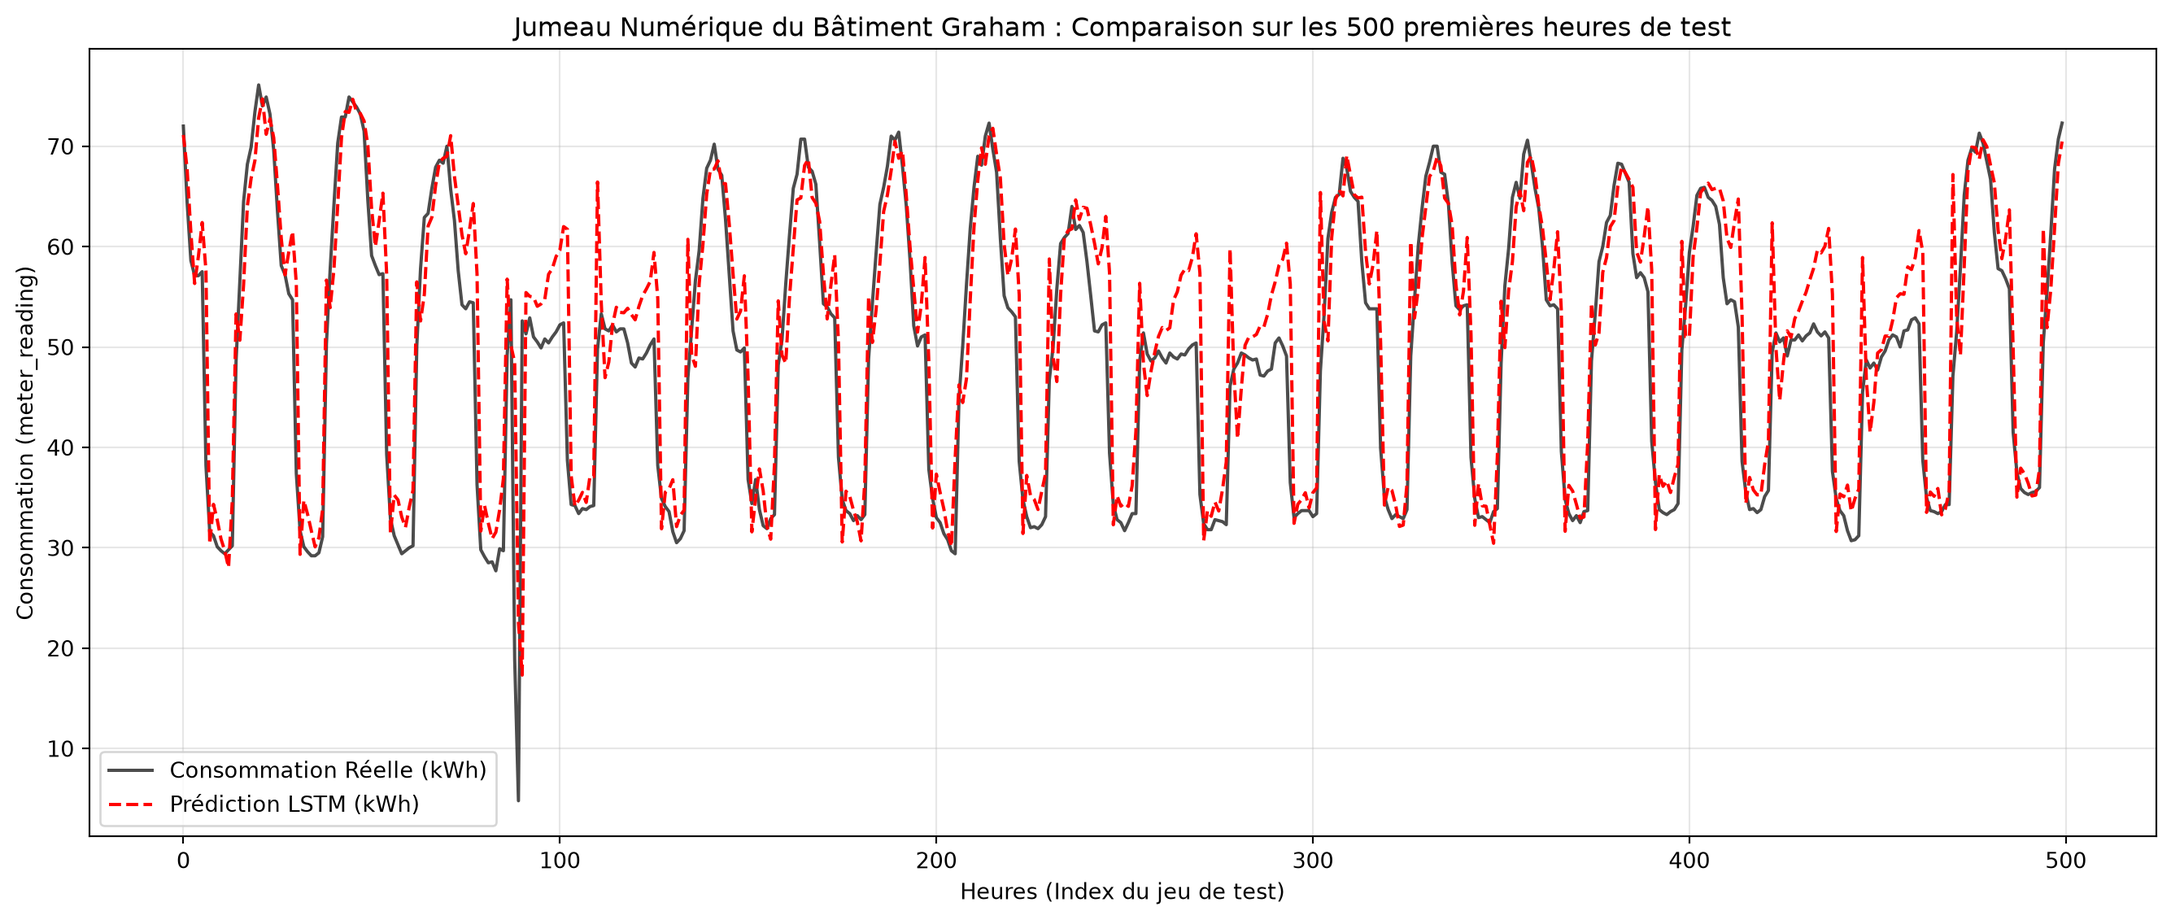
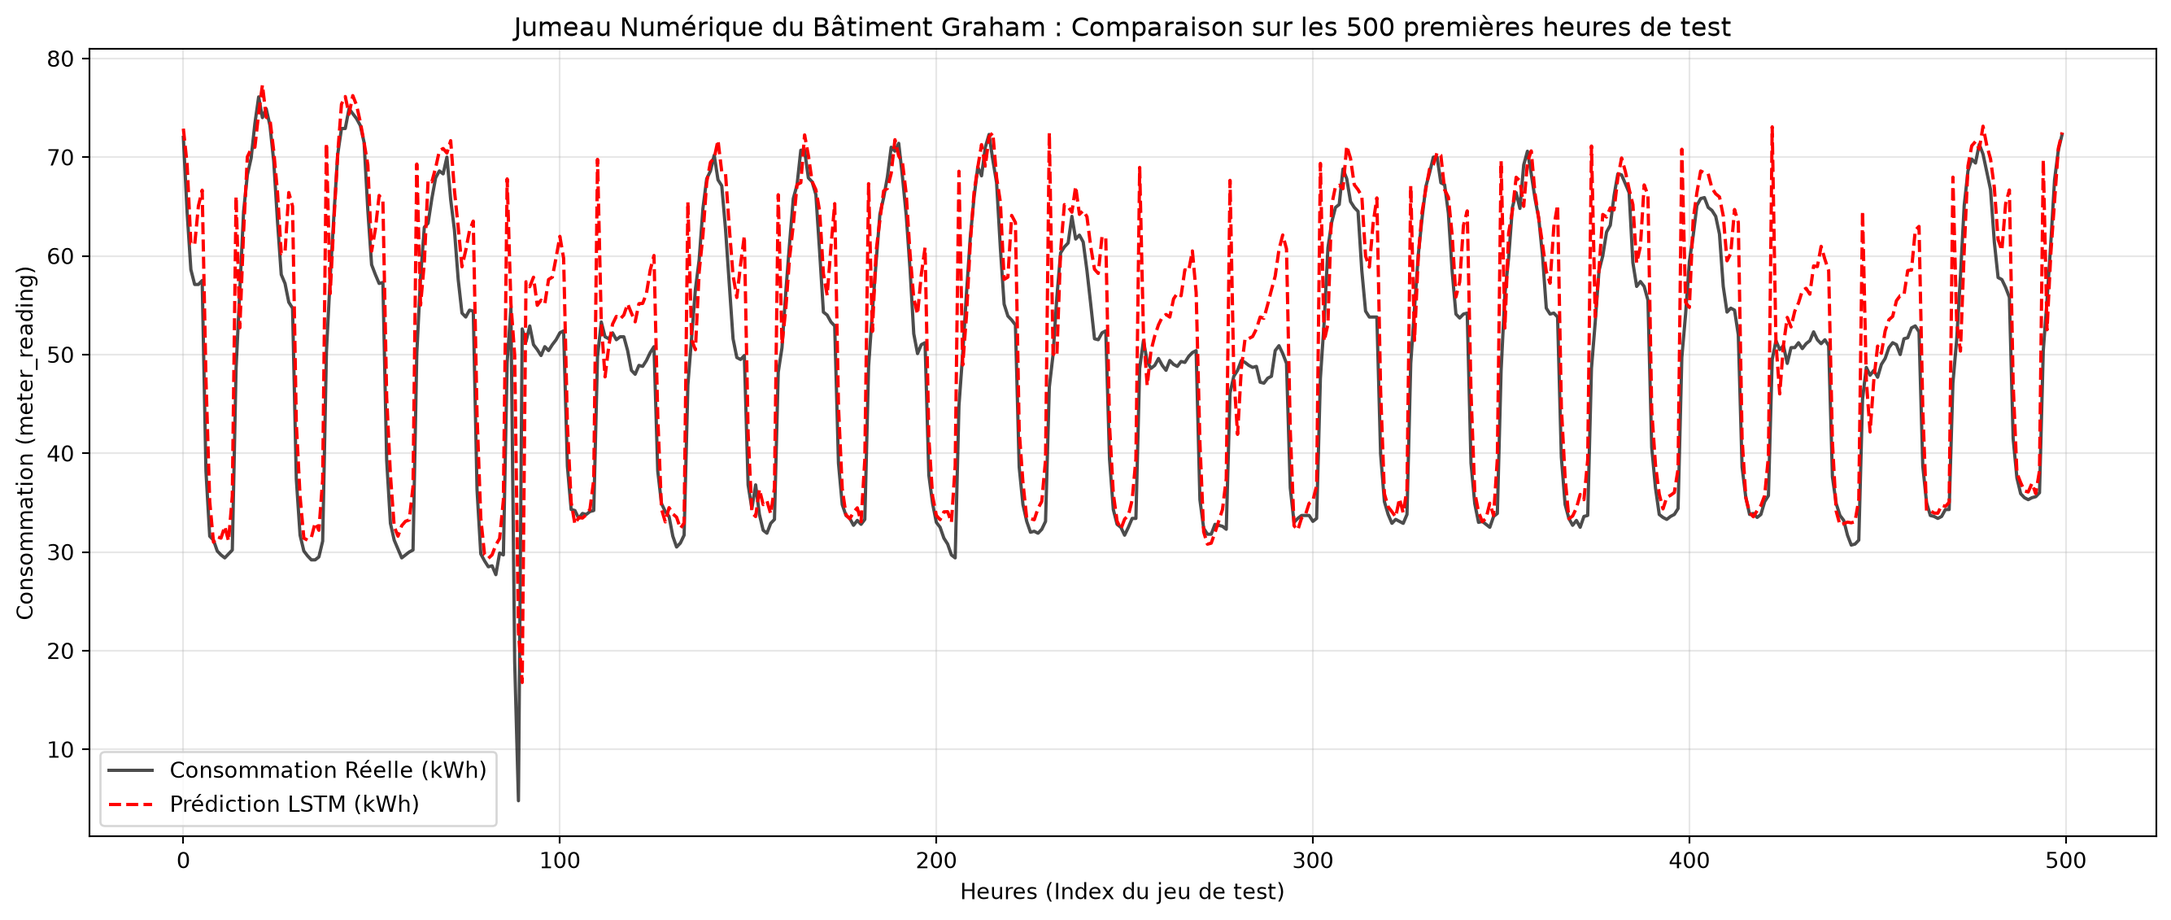
Built site for gh-pages

Changed region(s): [[0.0622, 0.0928, 0.964, 0.6189], [0.0, 0.588, 0.0311, 0.6189], [0.0, 0.3714, 0.0311, 0.4023]]

diff --git a/ai-ml/optitherm.html b/ai-ml/optitherm.html
@@ -463,7 +463,7 @@ window.Quarto = {
 <section id="why-this-building" class="level4">
 <h4 class="anchored" data-anchor-id="why-this-building">Why this building?</h4>
 <p>Office buildings exhibit well-defined daily and weekly occupancy patterns, with low occupancy during nights and weekends. In addition, a building constructed in 1974 is likely to have significant thermal inertia and relatively poor insulation compared with modern standards. These characteristics make it an ideal candidate for a predictive AI-based control system, as substantial energy savings can be achieved by anticipating heating and cooling demands while maintaining occupant comfort.</p>
-<div id="f310b35c" class="cell" data-execution_count="1">
+<div id="9928c8fd" class="cell" data-execution_count="1">
 <div class="code-copy-outer-scaffold"><div class="sourceCode cell-code" id="cb1"><pre class="sourceCode python code-with-copy"><code class="sourceCode python"><span id="cb1-1"><a href="#cb1-1" aria-hidden="true" tabindex="-1"></a><span class="im">import</span> pandas <span class="im">as</span> pd</span>
 <span id="cb1-2"><a href="#cb1-2" aria-hidden="true" tabindex="-1"></a></span>
 <span id="cb1-3"><a href="#cb1-3" aria-hidden="true" tabindex="-1"></a><span class="co"># Load the building metadata</span></span>
@@ -538,7 +538,7 @@ Name: count, dtype: int64
 </section>
 <section id="stage-1-data-engineering-and-consolidation-1" class="level2">
 <h2 class="anchored" data-anchor-id="stage-1-data-engineering-and-consolidation-1">Stage 1: Data Engineering and Consolidation</h2>
-<div id="9593d9f4" class="cell" data-execution_count="2">
+<div id="6201e1d2" class="cell" data-execution_count="2">
 <div class="code-copy-outer-scaffold"><div class="sourceCode cell-code" id="cb3"><pre class="sourceCode python code-with-copy"><code class="sourceCode python"><span id="cb3-1"><a href="#cb3-1" aria-hidden="true" tabindex="-1"></a><span class="co"># Parameters for the digital twin</span></span>
 <span id="cb3-2"><a href="#cb3-2" aria-hidden="true" tabindex="-1"></a>building_id <span class="op">=</span> <span class="st">"Panther_office_Graham"</span></span>
 <span id="cb3-3"><a href="#cb3-3" aria-hidden="true" tabindex="-1"></a>site_id <span class="op">=</span> <span class="st">"Panther"</span></span>
@@ -603,7 +603,7 @@ dtype: int64</code></pre>
 <section id="next-step" class="level4">
 <h4 class="anchored" data-anchor-id="next-step">Next Step</h4>
 <p>Before deciding whether to impute or discard these observations, a visual temporal analysis is required to identify the distribution and duration of the electricity meter outages.</p>
-<div id="fb8bb207" class="cell" data-execution_count="3">
+<div id="91caa2a7" class="cell" data-execution_count="3">
 <div class="code-copy-outer-scaffold"><div class="sourceCode cell-code" id="cb5"><pre class="sourceCode python code-with-copy"><code class="sourceCode python"><span id="cb5-1"><a href="#cb5-1" aria-hidden="true" tabindex="-1"></a><span class="im">import</span> matplotlib.pyplot <span class="im">as</span> plt</span>
 <span id="cb5-2"><a href="#cb5-2" aria-hidden="true" tabindex="-1"></a></span>
 <span id="cb5-3"><a href="#cb5-3" aria-hidden="true" tabindex="-1"></a><span class="bu">print</span>(<span class="st">"1. Cleaning exogenous variables (weather data)..."</span>)</span>
@@ -659,7 +659,7 @@ dtype: int64
 <p>Interestingly, the prolonged sensor outage observed during the summer of 2017 was retained and used as a natural temporal boundary between the training and testing datasets. This approach avoids arbitrary data splitting strategies and ensures a realistic evaluation scenario, where the model is trained on past observations and tested on future unseen conditions.</p>
 <p><strong>Methodological justification:</strong></p>
 <p>The thermal dynamics of a building are learned from temporal sequences using recurrent neural networks (RNN/LSTM) with sliding windows. Therefore, preserving the chronological structure of the data is essential. By using the sensor outage as a natural separation point, the model evaluation better reflects a real-world deployment scenario, where future energy consumption must be predicted based solely on historical information.</p>
-<div id="ba37c20b" class="cell" data-execution_count="4">
+<div id="bb0db05f" class="cell" data-execution_count="4">
 <div class="code-copy-outer-scaffold"><div class="sourceCode cell-code" id="cb7"><pre class="sourceCode python code-with-copy"><code class="sourceCode python"><span id="cb7-1"><a href="#cb7-1" aria-hidden="true" tabindex="-1"></a><span class="bu">print</span>(<span class="st">"1. Removing the initial data gap (early 2016)..."</span>)</span>
 <span id="cb7-2"><a href="#cb7-2" aria-hidden="true" tabindex="-1"></a></span>
 <span id="cb7-3"><a href="#cb7-3" aria-hidden="true" tabindex="-1"></a><span class="co"># Remove the period with insufficient data coverage</span></span>
@@ -727,7 +727,7 @@ dtype: int64
 <p><strong><em>Why use both sine and cosine components?</em></strong></p>
 <p>Using only one trigonometric function introduces ambiguity due to symmetry. For example, if only the sine component is used, midnight (<span class="math inline">\(\sin(0)=0\)</span>) and noon (<span class="math inline">\(\sin(\pi)=0\)</span>) would receive the same value, preventing the model from distinguishing between day and night. By combining the cosine component (<span class="math inline">\(X\)</span>-axis) and sine component (<span class="math inline">\(Y\)</span>-axis), each timestamp is uniquely represented in a two-dimensional periodic space. Consequently, the Euclidean distance between 23:00 and 01:00 is correctly interpreted as small by the neural network.</p>
 <p>The following code adds these temporal coordinates to the dataset:</p>
-<div id="f295a887" class="cell" data-execution_count="5">
+<div id="40c1a154" class="cell" data-execution_count="5">
 <div class="code-copy-outer-scaffold"><div class="sourceCode cell-code" id="cb9"><pre class="sourceCode python code-with-copy"><code class="sourceCode python"><span id="cb9-1"><a href="#cb9-1" aria-hidden="true" tabindex="-1"></a><span class="im">import</span> numpy <span class="im">as</span> np</span>
 <span id="cb9-2"><a href="#cb9-2" aria-hidden="true" tabindex="-1"></a><span class="im">import</span> matplotlib.pyplot <span class="im">as</span> plt</span>
 <span id="cb9-3"><a href="#cb9-3" aria-hidden="true" tabindex="-1"></a></span>
@@ -783,7 +783,7 @@ dtype: int64
 <p>This analysis provides valuable insights for feature selection before training the PyTorch model. Variables with limited predictive relevance may be removed to reduce noise and decrease the dimensionality of the input tensors. However, correlation alone does not fully capture the predictive value of a feature, especially in nonlinear time-dependent systems such as building thermal dynamics.</p>
 <p><strong>Code: Correlation Heatmap</strong></p>
 <p>The following visualization uses the <code>seaborn</code> library to generate a correlation heatmap, providing an overview of the relationships between the selected features and the energy consumption target.</p>
-<div id="74efd0ca" class="cell" data-execution_count="6">
+<div id="df7bccfd" class="cell" data-execution_count="6">
 <div class="code-copy-outer-scaffold"><div class="sourceCode cell-code" id="cb11"><pre class="sourceCode python code-with-copy"><code class="sourceCode python"><span id="cb11-1"><a href="#cb11-1" aria-hidden="true" tabindex="-1"></a><span class="im">import</span> seaborn <span class="im">as</span> sns</span>
 <span id="cb11-2"><a href="#cb11-2" aria-hidden="true" tabindex="-1"></a><span class="im">import</span> matplotlib.pyplot <span class="im">as</span> plt</span>
 <span id="cb11-3"><a href="#cb11-3" aria-hidden="true" tabindex="-1"></a></span>
@@ -852,7 +852,7 @@ Génération de la Heatmap globale...</code></pre>
 <li><code>day_cos</code>: weekly temporal encoding component.</li>
 </ul>
 <p>The objective is to determine whether past values of these variables contain predictive information about future electricity consumption over a 24-hour horizon. This analysis helps identify delayed relationships that cannot be captured by a standard Pearson correlation computed at the same timestamp.</p>
-<div id="3694def3" class="cell" data-execution_count="7">
+<div id="ed1399c9" class="cell" data-execution_count="7">
 <div class="code-copy-outer-scaffold"><div class="sourceCode cell-code" id="cb13"><pre class="sourceCode python code-with-copy"><code class="sourceCode python"><span id="cb13-1"><a href="#cb13-1" aria-hidden="true" tabindex="-1"></a><span class="im">import</span> pandas <span class="im">as</span> pd</span>
 <span id="cb13-2"><a href="#cb13-2" aria-hidden="true" tabindex="-1"></a><span class="im">import</span> matplotlib.pyplot <span class="im">as</span> plt</span>
 <span id="cb13-3"><a href="#cb13-3" aria-hidden="true" tabindex="-1"></a></span>
@@ -1000,7 +1000,7 @@ dtype: float64</code></pre>
 <p>To predict the energy consumption at time <span class="math inline">\(t\)</span>, the model receives the previous 24 hours of system information:</p>
 <p>[ [X_{t-24}, X_{t-23}, …, X_{t-1}] ]</p>
 <p>Any sequence containing missing target values is discarded to ensure that the model is trained only on physically consistent observations.</p>
-<div id="fee46f05" class="cell" data-execution_count="8">
+<div id="c4d0d6ea" class="cell" data-execution_count="8">
 <div class="code-copy-outer-scaffold"><div class="sourceCode cell-code" id="cb15"><pre class="sourceCode python code-with-copy"><code class="sourceCode python"><span id="cb15-1"><a href="#cb15-1" aria-hidden="true" tabindex="-1"></a><span class="im">import</span> numpy <span class="im">as</span> np</span>
 <span id="cb15-2"><a href="#cb15-2" aria-hidden="true" tabindex="-1"></a><span class="im">import</span> pandas <span class="im">as</span> pd</span>
 <span id="cb15-3"><a href="#cb15-3" aria-hidden="true" tabindex="-1"></a><span class="im">from</span> sklearn.preprocessing <span class="im">import</span> MinMaxScaler</span>
@@ -1137,7 +1137,7 @@ Testing X : (3824, 24, 10), y: (3824, 1)</code></pre>
 </ol>
 <p>The model parameters are optimized by minimizing the Mean Squared Error (MSE) loss, which is appropriate for this continuous regression problem. The Adam optimizer is selected due to its adaptive learning rate mechanism and its robustness for training deep neural networks.</p>
 <p>The following code implements the <code>ThermalLSTM</code> architecture and initializes the training configuration.</p>
-<div id="f4075238" class="cell" data-execution_count="9">
+<div id="d24a1c1e" class="cell" data-execution_count="9">
 <div class="code-copy-outer-scaffold"><div class="sourceCode cell-code" id="cb17"><pre class="sourceCode python code-with-copy"><code class="sourceCode python"><span id="cb17-1"><a href="#cb17-1" aria-hidden="true" tabindex="-1"></a><span class="im">import</span> torch</span>
 <span id="cb17-2"><a href="#cb17-2" aria-hidden="true" tabindex="-1"></a><span class="im">import</span> torch.nn <span class="im">as</span> nn</span>
 <span id="cb17-3"><a href="#cb17-3" aria-hidden="true" tabindex="-1"></a><span class="im">import</span> torch.optim <span class="im">as</span> optim</span>
@@ -1283,7 +1283,7 @@ ThermalLSTM(
 -&gt; Model ready for training.</code></pre>
 </div>
 </div>
-<div id="b66ff519" class="cell" data-execution_count="10">
+<div id="11c0ae60" class="cell" data-execution_count="10">
 <div class="code-copy-outer-scaffold"><div class="sourceCode cell-code" id="cb19"><pre class="sourceCode python code-with-copy"><code class="sourceCode python"><span id="cb19-1"><a href="#cb19-1" aria-hidden="true" tabindex="-1"></a><span class="im">import</span> torch</span>
 <span id="cb19-2"><a href="#cb19-2" aria-hidden="true" tabindex="-1"></a><span class="im">from</span> torch.utils.data <span class="im">import</span> TensorDataset, DataLoader</span>
 <span id="cb19-3"><a href="#cb19-3" aria-hidden="true" tabindex="-1"></a></span>
@@ -1325,7 +1325,7 @@ Encapsulation dans des DataLoader (Gestion des batchs)...
 -&gt; Model transfered to the target device : cpu</code></pre>
 </div>
 </div>
-<div id="a8eb1af7" class="cell" data-execution_count="11">
+<div id="cfc525dc" class="cell" data-execution_count="11">
 <div class="code-copy-outer-scaffold"><div class="sourceCode cell-code" id="cb21"><pre class="sourceCode python code-with-copy"><code class="sourceCode python"><span id="cb21-1"><a href="#cb21-1" aria-hidden="true" tabindex="-1"></a><span class="im">import</span> torch</span>
 <span id="cb21-2"><a href="#cb21-2" aria-hidden="true" tabindex="-1"></a><span class="im">from</span> torch.utils.data <span class="im">import</span> TensorDataset, DataLoader</span>
 <span id="cb21-3"><a href="#cb21-3" aria-hidden="true" tabindex="-1"></a></span>
@@ -1371,7 +1371,7 @@ Creating DataLoaders...
 <p>After each epoch, the model is evaluated on the future unseen dataset separated by the natural sensor outage boundary. This chronological evaluation provides a realistic measure of the model’s generalization capability.</p></li>
 </ol>
 <p>The evolution of the training and evaluation losses is stored throughout the optimization process to monitor convergence and detect potential overfitting.</p>
-<div id="655d9c1a" class="cell" data-execution_count="12">
+<div id="803c501d" class="cell" data-execution_count="12">
 <div class="code-copy-outer-scaffold"><div class="sourceCode cell-code" id="cb23"><pre class="sourceCode python code-with-copy"><code class="sourceCode python"><span id="cb23-1"><a href="#cb23-1" aria-hidden="true" tabindex="-1"></a><span class="im">import</span> torch</span>
 <span id="cb23-2"><a href="#cb23-2" aria-hidden="true" tabindex="-1"></a></span>
 <span id="cb23-3"><a href="#cb23-3" aria-hidden="true" tabindex="-1"></a><span class="bu">print</span>(<span class="st">"Configuring the training loop..."</span>)</span>
@@ -1450,23 +1450,23 @@ Creating DataLoaders...
 <span id="cb23-76"><a href="#cb23-76" aria-hidden="true" tabindex="-1"></a><span class="bu">print</span>(<span class="ss">f"Best test MSE: </span><span class="sc">{</span>best_test_loss<span class="sc">:.6f}</span><span class="ss">"</span>)</span></code></pre></div><button title="Copy to Clipboard" class="code-copy-button"><i class="bi"></i></button></div>
 <div class="cell-output cell-output-stdout">
 <pre><code>Configuring the training loop...
-Epoch [1/100] | Train Loss (MSE): 0.074397 | Test Loss (MSE): 0.047068
-Epoch [10/100] | Train Loss (MSE): 0.003276 | Test Loss (MSE): 0.008110
-Epoch [20/100] | Train Loss (MSE): 0.002428 | Test Loss (MSE): 0.004623
-Epoch [30/100] | Train Loss (MSE): 0.001639 | Test Loss (MSE): 0.002998
-Epoch [40/100] | Train Loss (MSE): 0.001008 | Test Loss (MSE): 0.002055
-Epoch [50/100] | Train Loss (MSE): 0.000752 | Test Loss (MSE): 0.001472
-Epoch [60/100] | Train Loss (MSE): 0.000641 | Test Loss (MSE): 0.001698
-Epoch [70/100] | Train Loss (MSE): 0.000594 | Test Loss (MSE): 0.001375
-Epoch [80/100] | Train Loss (MSE): 0.000577 | Test Loss (MSE): 0.001574
-Epoch [90/100] | Train Loss (MSE): 0.000558 | Test Loss (MSE): 0.001511
-Epoch [100/100] | Train Loss (MSE): 0.000542 | Test Loss (MSE): 0.001463
+Epoch [1/100] | Train Loss (MSE): 0.064011 | Test Loss (MSE): 0.034661
+Epoch [10/100] | Train Loss (MSE): 0.003240 | Test Loss (MSE): 0.007420
+Epoch [20/100] | Train Loss (MSE): 0.002548 | Test Loss (MSE): 0.003897
+Epoch [30/100] | Train Loss (MSE): 0.001892 | Test Loss (MSE): 0.003160
+Epoch [40/100] | Train Loss (MSE): 0.001292 | Test Loss (MSE): 0.002343
+Epoch [50/100] | Train Loss (MSE): 0.000898 | Test Loss (MSE): 0.001726
+Epoch [60/100] | Train Loss (MSE): 0.000772 | Test Loss (MSE): 0.001557
+Epoch [70/100] | Train Loss (MSE): 0.000697 | Test Loss (MSE): 0.001448
+Epoch [80/100] | Train Loss (MSE): 0.000677 | Test Loss (MSE): 0.001728
+Epoch [90/100] | Train Loss (MSE): 0.000647 | Test Loss (MSE): 0.001450
+Epoch [100/100] | Train Loss (MSE): 0.000630 | Test Loss (MSE): 0.001669
 
 --- Training completed successfully! ---
-Best test MSE: 0.001283</code></pre>
+Best test MSE: 0.001342</code></pre>
 </div>
 </div>
-<div id="ab6aaea5" class="cell" data-execution_count="13">
+<div id="82a2dba0" class="cell" data-execution_count="13">
 <div class="code-copy-outer-scaffold"><div class="sourceCode cell-code" id="cb25"><pre class="sourceCode python code-with-copy"><code class="sourceCode python"><span id="cb25-1"><a href="#cb25-1" aria-hidden="true" tabindex="-1"></a><span class="im">import</span> matplotlib.pyplot <span class="im">as</span> plt</span>
 <span id="cb25-2"><a href="#cb25-2" aria-hidden="true" tabindex="-1"></a></span>
 <span id="cb25-3"><a href="#cb25-3" aria-hidden="true" tabindex="-1"></a><span class="bu">print</span>(<span class="st">"1. Génération des prédictions sur le jeu de test..."</span>)</span>
@@ -1510,7 +1510,7 @@ Best test MSE: 0.001283</code></pre>
 </div>
 </div>
 </div>
-<div id="97308501" class="cell" data-execution_count="14">
+<div id="25f6e0b1" class="cell" data-execution_count="14">
 <div class="code-copy-outer-scaffold"><div class="sourceCode cell-code" id="cb27"><pre class="sourceCode python code-with-copy"><code class="sourceCode python"><span id="cb27-1"><a href="#cb27-1" aria-hidden="true" tabindex="-1"></a>plt.figure(figsize<span class="op">=</span>(<span class="dv">10</span>, <span class="dv">5</span>))</span>
 <span id="cb27-2"><a href="#cb27-2" aria-hidden="true" tabindex="-1"></a>plt.plot(train_losses, label<span class="op">=</span><span class="st">"Perte Entraînement (Train Loss)"</span>, color<span class="op">=</span><span class="st">'blue'</span>)</span>
 <span id="cb27-3"><a href="#cb27-3" aria-hidden="true" tabindex="-1"></a>plt.plot(test_losses, label<span class="op">=</span><span class="st">"Perte Test (Test Loss)"</span>, color<span class="op">=</span><span class="st">'orange'</span>, linestyle<span class="op">=</span><span class="st">'--'</span>)</span>
@@ -1529,7 +1529,7 @@ Best test MSE: 0.001283</code></pre>
 </div>
 </div>
 </div>
-<div id="f1d868ff" class="cell" data-execution_count="15">
+<div id="7ae1870b" class="cell" data-execution_count="15">
 <div class="code-copy-outer-scaffold"><div class="sourceCode cell-code" id="cb28"><pre class="sourceCode python code-with-copy"><code class="sourceCode python"><span id="cb28-1"><a href="#cb28-1" aria-hidden="true" tabindex="-1"></a>plt.figure(figsize<span class="op">=</span>(<span class="dv">6</span>, <span class="dv">6</span>))</span>
 <span id="cb28-2"><a href="#cb28-2" aria-hidden="true" tabindex="-1"></a>plt.scatter(actuals_rescaled, predictions_rescaled, alpha<span class="op">=</span><span class="fl">0.3</span>, color<span class="op">=</span><span class="st">'purple'</span>, s<span class="op">=</span><span class="dv">10</span>, label<span class="op">=</span><span class="st">"Predictions"</span>)</span>
 <span id="cb28-3"><a href="#cb28-3" aria-hidden="true" tabindex="-1"></a><span class="co"># Ligne idéale y = x</span></span>

diff --git a/ai-ml/blobs_classification.html b/ai-ml/blobs_classification.html
@@ -612,11 +612,11 @@ Epoch 20 | Train Loss: 0.0236 | Train Acc: 99.16% | Test Loss: 0.0225 | Test Acc
 <section id="decision-boundary-visualization" class="level2">
 <h2 class="anchored" data-anchor-id="decision-boundary-visualization">5. Decision Boundary Visualization</h2>
 <p>To verify that the network has successfully captured the geometry of the data, we will create a 2D mesh grid, ask the model to predict the class for each point, and plot the resulting decision boundaries.</p>
-<div id="4fa0586b" class="cell" data-execution_count="54">
+<div id="4fa0586b" class="cell">
 <div class="code-copy-outer-scaffold"><div class="sourceCode cell-code" id="cb8"><pre class="sourceCode python code-with-copy"><code class="sourceCode python"><span id="cb8-1"><a href="#cb8-1" aria-hidden="true" tabindex="-1"></a><span class="co"># Create a mesh grid covering the data space</span></span>
 <span id="cb8-2"><a href="#cb8-2" aria-hidden="true" tabindex="-1"></a>xx, yy <span class="op">=</span> np.meshgrid(</span>
-<span id="cb8-3"><a href="#cb8-3" aria-hidden="true" tabindex="-1"></a>    np.linspace(np.<span class="bu">min</span>(x_data[:, <span class="dv">0</span>]) <span class="op">-</span> <span class="fl">0.25</span>, np.<span class="bu">max</span>(x_data[:, <span class="dv">0</span>]) <span class="op">-</span> <span class="fl">0.25</span>, <span class="dv">500</span>),</span>
-<span id="cb8-4"><a href="#cb8-4" aria-hidden="true" tabindex="-1"></a>    np.linspace(np.<span class="bu">min</span>(x_data[:, <span class="dv">1</span>]) <span class="op">+</span> <span class="fl">0.25</span>, np.<span class="bu">max</span>(x_data[:, <span class="dv">1</span>]) <span class="op">+</span> <span class="fl">0.25</span>, <span class="dv">500</span>)</span>
+<span id="cb8-3"><a href="#cb8-3" aria-hidden="true" tabindex="-1"></a>    np.linspace(np.<span class="bu">min</span>(x_data[:, <span class="dv">0</span>]) <span class="op">-</span> <span class="fl">0.25</span>, np.<span class="bu">max</span>(x_data[:, <span class="dv">0</span>]) <span class="op">+</span> <span class="fl">0.25</span>, <span class="dv">500</span>),</span>
+<span id="cb8-4"><a href="#cb8-4" aria-hidden="true" tabindex="-1"></a>    np.linspace(np.<span class="bu">min</span>(x_data[:, <span class="dv">1</span>]) <span class="op">-</span> <span class="fl">0.25</span>, np.<span class="bu">max</span>(x_data[:, <span class="dv">1</span>]) <span class="op">+</span> <span class="fl">0.25</span>, <span class="dv">500</span>)</span>
 <span id="cb8-5"><a href="#cb8-5" aria-hidden="true" tabindex="-1"></a>)</span>
 <span id="cb8-6"><a href="#cb8-6" aria-hidden="true" tabindex="-1"></a></span>
 <span id="cb8-7"><a href="#cb8-7" aria-hidden="true" tabindex="-1"></a><span class="co"># Predict across the entire grid</span></span>
